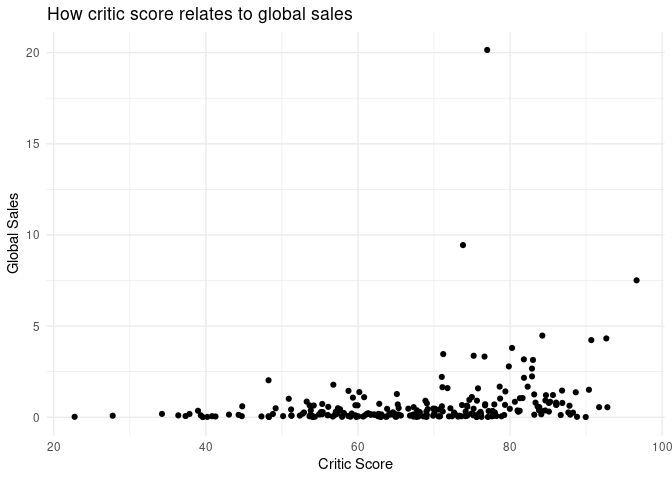
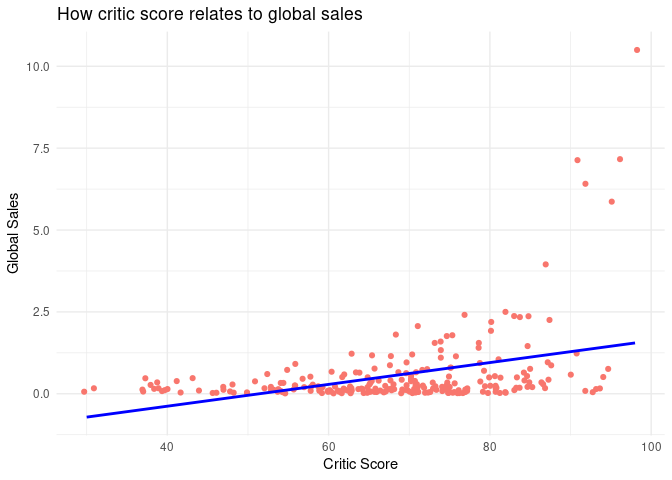
completed fourth data

diff --git a/proposal/proposal.md b/proposal/proposal.md
@@ -112,8 +112,10 @@ top_platform_list <<- top_platform$Platform
 
 top_games <- video_game_sales%>%
   group_by(Name)%>%
-  summarise(global = sum(Global_Sales))%>%
-  slice_max(global, n = 50)
+  summarise(sales = sum(Global_Sales))%>%
+  slice_max(sales, n = 50)
+
+top_games_list <<- top_games$Name
 ```
 
 ### First Data
@@ -168,26 +170,7 @@ particular platforms perform especially well and where they do not. This
 will allow us to determine how much platforms in certain regions will
 influence the global sales of a game.
 
-#### Possibly change to bars for clarity
-
 #### code and plotting.
-
-``` r
-mean_df <- video_game_sales %>%
-  group_by(Platform) %>%
-  summarise(mean_NA = mean(NA_Sales), mean_EU = mean(EU_Sales), mean_JP = mean(JP_Sales), mean_Other = mean(Other_Sales), mean_sales = mean(Global_Sales))%>%
-  group_by(Platform)%>%
-  filter(Platform %in% top_platform_list)
-```
-
-``` r
-mean_df_long <- mean_df%>%
-  pivot_longer(
-    cols = -Platform,
-    names_to = "Region",
-    values_to = "meanValue"
-  )
-```
 
 ``` r
 mean_df_long %>%
@@ -242,6 +225,11 @@ video_game_sales %>%
 
 #### A comparison graph of critic score and global sales (x variable = critic score, y variable = global sales) and how they relate to each other using a line graph.
 
+This plot will show the relationship between critic score and global
+sales. It will help visualize how critic score affects global sales - if
+critic score has an effect on global sales either negatively or
+positively.
+
 #### code and plotting
 
 ``` r
@@ -249,23 +237,59 @@ sample_data <- video_game_sales %>%
  sample_n(500)
 
 sample_data %>%
-  ggplot(aes(x = Critic_Score, y = Global_Sales)) +
+  ggplot(aes(x = Critic_Score, y = Global_Sales, col = "red")) +
   geom_jitter()+
+  geom_smooth(method = "lm", se = FALSE, col = "blue") +
   labs(title = "How critic score relates to global sales",
        x = "Critic Score", y = "Global Sales"
        ) +
-  theme_minimal() 
+  theme_minimal() + theme(legend.position = "none")
 ```
 
-    ## Warning: Removed 261 rows containing missing values (geom_point).
+    ## `geom_smooth()` using formula 'y ~ x'
+
+    ## Warning: Removed 258 rows containing non-finite values (stat_smooth).
+
+    ## Warning: Removed 258 rows containing missing values (geom_point).
 
 ![](proposal_files/figure-gfm/unnamed-chunk-3-1.png)<!-- -->
 
-### Fifth Data
+### Analysis
+
+From the graph shown above, we can see that critic score affects global
+sales positively i.e, the higher the critic score, the more the global
+sales are. This aligns with something we could have already predicted
+before. Here, I have taken a sample of 500 random observations from
+16719 observations. This is because plotting a graph with 16719
+observations did not seem to show a very clear trend. So this shows a
+different graph every time as it picks a random bunch of 500
+observations but in almost every single graph, we see a positive trend.
+We can also see a lot of critic scores which barely affects the global
+sales. For example we can see critic score of above 60 which correlates
+to global sale of 0. This shows we can not really depend on critic
+scores to see how global sales are affected by it. Therefore we can
+conclude that critic score is most definitetly, not one of the factors
+which will have the biggest influence on video games.
 
 #### A scatter graph comparing the user count and user score alongside the same of comparing the critic count and critic score. Colour coded by global sales amount
 
+(???)
+
 #### code and plotting
+
+``` r
+video_game_sales %>%
+  ggplot(aes(x = Critic_Score, y = Critic_Count, col = "red")) +
+  geom_point()+
+  labs(title = "How critic score relates to critic count",
+       x = "Critic Score", y = "Critic Count"
+       ) +
+  theme_minimal()
+```
+
+    ## Warning: Removed 8582 rows containing missing values (geom_point).
+
+![](proposal_files/figure-gfm/unnamed-chunk-4-1.png)<!-- -->
 
 ### Sixth Data
 
@@ -275,7 +299,32 @@ sample_data %>%
 
 ``` r
 high_selling_games <- video_game_sales %>%
-  filter(11.3 < Global_Sales)
+  filter(Name %in% top_games_list)%>%
+  group_by(Name = tolower(Name)) %>%
+  summarise_each(funs(max))%>%
+  summarise(Publisher, Global_Sales)
+```
+
+    ## Warning: `summarise_each_()` was deprecated in dplyr 0.7.0.
+    ## Please use `across()` instead.
+    ## This warning is displayed once every 8 hours.
+    ## Call `lifecycle::last_warnings()` to see where this warning was generated.
+
+    ## Warning: `funs()` was deprecated in dplyr 0.8.0.
+    ## Please use a list of either functions or lambdas: 
+    ## 
+    ##   # Simple named list: 
+    ##   list(mean = mean, median = median)
+    ## 
+    ##   # Auto named with `tibble::lst()`: 
+    ##   tibble::lst(mean, median)
+    ## 
+    ##   # Using lambdas
+    ##   list(~ mean(., trim = .2), ~ median(., na.rm = TRUE))
+    ## This warning is displayed once every 8 hours.
+    ## Call `lifecycle::last_warnings()` to see where this warning was generated.
+
+``` r
 high_selling_games %>%
   group_by(Publisher) %>%
   ggplot(aes(x = Publisher)) +
@@ -316,8 +365,6 @@ mean_Genre_video_game %>%
 #### A comparison of global sales for games that were released in america against those that were not (simple 2 varaible bar graph with stacked year of release)
 
 #### code and plotting
-
-### etc…
 
 ### Comparison of all different data and analogies
 
